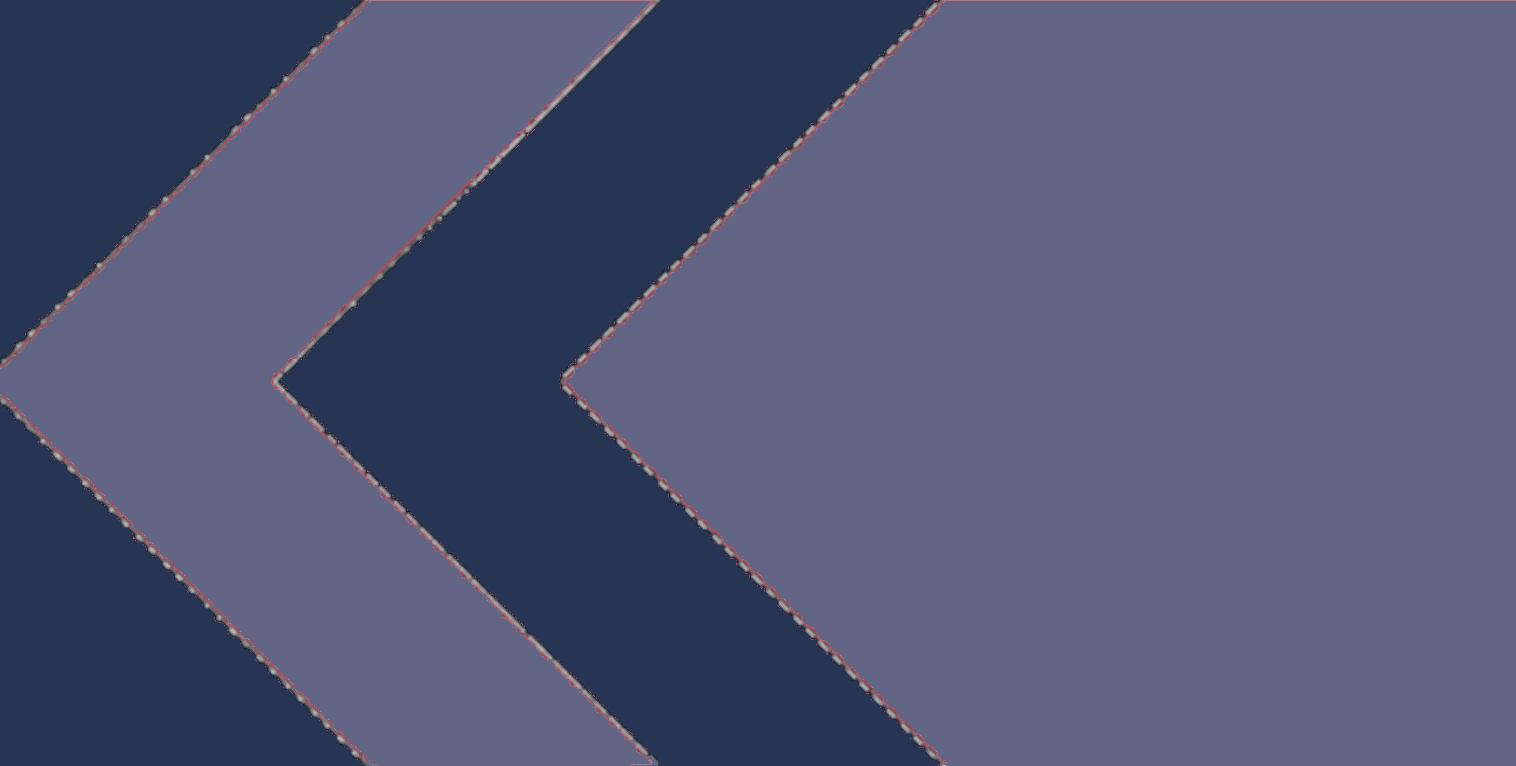
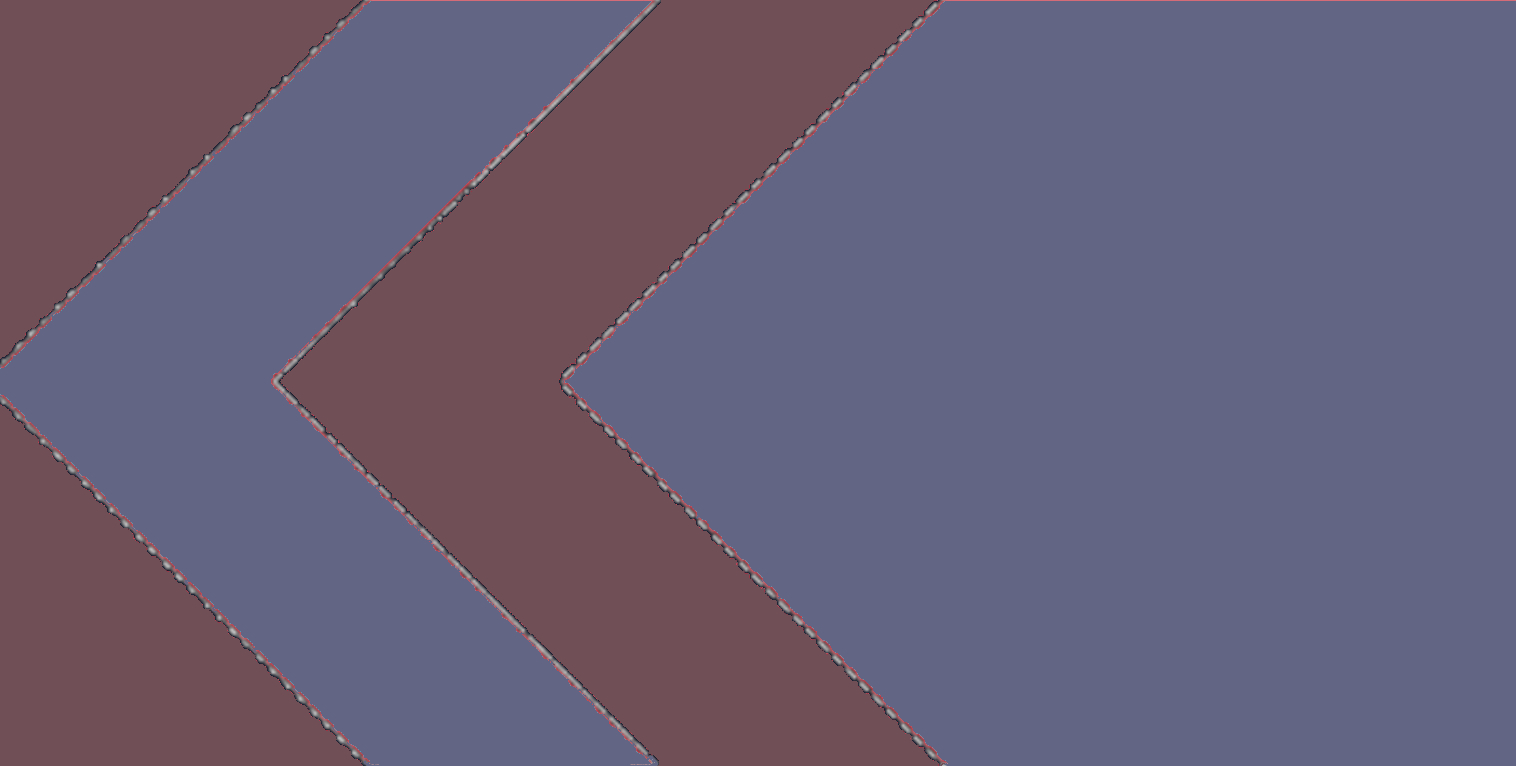
Added another arrow to qtile bar

Changed region(s): [[0.186, 0.0, 0.6201, 1.0], [0.0, 0.5405, 0.248, 1.0], [0.0, 0.0, 0.248, 0.4804]]

diff --git a/.config/qtile/config.py b/.config/qtile/config.py
@@ -105,7 +105,7 @@ groups = [
 	Group("General", matches=[Match(wm_class=["qutebrowser", "Chromium"])]),	
 	Group("Term", matches=[Match(title=['~'])]),
 	Group("IM", matches=[Match(wm_class=["pulse-sms"])]),
-	Group("Files", matches=[Match(wm_class=["Pcmanfm"]), Match(title=["ranger"]), Match(wm_class=["mpv"]), Match(wm_class=["Gimp"]), Match(wm_class=["Olive"])]),
+	Group("Files", matches=[Match(wm_class=["Pcmanfm"]), Match(title=["ranger"]), Match(wm_class=["mpv"])]),
 	Group("Games", matches=[Match(wm_class=["Steam"]), Match(wm_class=["Lutris"])]),
 	Group("VM", matches=[Match(wm_class=["Virt-manager"])]),
 ]
@@ -132,13 +132,14 @@ layouts = [
 ]
 
 ##### COLORS #####
+# Sections are listed from left to right. A section is from the begining of one arrow in the bar to the begining of the next.
 colors = [["#303030", "#303030"], # panel background
-          ["#887386", "#887386"], # Clock Background
-          ["#ffffff", "#ffffff"], # text color (white)
-          ["#626584", "#626584"], # background for system monitor widgets
-          ["#704F56", "#704F56"], # background for network  widgets
-          ["#263554", "#263554"], # background for control and update widgets
-          ["#e1acff", "#e1acff"]] # 
+          ["#887386", "#887386"], # fifth section
+          ["#626584", "#626584"], # fourth section
+          ["#704f56", "#704f56"], # third section
+          ["#3a517d", "#3a517d"], # second section
+          ["#263554", "#263554"], # first section
+          ["#ffffff", "#ffffff"]] # Text Color (White) 
 
 ##### PROMPT #####
 prompt = "{0}@{1}: ".format(os.environ["USER"], socket.gethostname())
@@ -163,7 +164,7 @@ screens = [
                         linewidth=0,
                         padding=6,
                         background=colors[0],
-                        foreground=colors[2],
+                        foreground=colors[6],
                 ),
                 widget.GroupBox(),
 		widget.WindowName(
@@ -175,44 +176,60 @@ screens = [
 		),
 		widget.CPU(
 			format='CPU {load_percent}%',
-			background=colors[4],
-			foreground=colors[2],
+			background=colors[5],
+			foreground=colors[6],
 			padding=2,
 		),
 		widget.TextBox(
 			text=" Thermal",
-			background=colors[4],
-			foreground=colors[2],
+			background=colors[5],
+			foreground=colors[6],
 			padding=2,
 		),
 		widget.ThermalSensor(
-			background=colors[4],
-			foreground=colors[2],
+			background=colors[5],
+			foreground=colors[6],
 			padding=2,
 		),
                 widget.TextBox(
                         text=" RAM",
-                        background=colors[4],
-                        foreground=colors[2],
+                        background=colors[5],
+                        foreground=colors[6],
                         padding=2,
                ),
                widget.Memory(
-                        background=colors[4],
-                        foreground=colors[2],
+                        background=colors[5],
+                        foreground=colors[6],
                         padding=5,
                 ),
 		widget.Image(
 			filename="~/.config/qtile/pictures/arrow-blue.jpg",
 		),
 		widget.TextBox(
+			text="Free Space",
+			background=colors[4],
+			foreground=colors[6],
+			padding=2,
+		),
+		widget.DF(
+			background=colors[4],
+			foreground=colors[6],
+			padding=5,
+			update_interval=5,
+			visible_on_warn=False,
+		),
+		widget.Image(
+			filename="~/.config/qtile/pictures/arrow-red.jpg",
+		),
+		widget.TextBox(
 			text="Network ",
-			background=colors[5],
-			foreground=colors[2],
+			background=colors[3],
+			foreground=colors[6],
 		),
 		widget.Net(
 			format='{down} ↓↑ {up}',
-			background=colors[5],
-			foreground=colors[2],
+			background=colors[3],
+			foreground=colors[6],
 			padding=4,
 		),
 		widget.Image(
@@ -220,24 +237,24 @@ screens = [
 		),
 		widget.TextBox(
 			text="🔊 ",
-			background=colors[3],
-			foreground=colors[2],
+			background=colors[2],
+			foreground=colors[6],
 		),
 		widget.Volume(
-			background=colors[3],
-			foreground=colors[2],
+			background=colors[2],
+			foreground=colors[6],
 			padding=2
 		),
 		widget.TextBox(
 			text=" ↻ ",
-			background=colors[3],
-			foreground=colors[2],
+			mouse_callbacks = {'Button1': lambda qtile: qtile.cmd_spawn("st" + ' -e sudo pacman -Syy')},
+			background=colors[2],
+			foreground=colors[6],
 		),
 		widget.CheckUpdates(
 			display_format='{updates}',
-			mouse_callbacks = {'Button1': lambda qtile: qtile.cmd_spawn("st" + ' -e sudo pacman -Syy')},
-			background=colors[3],
-			foreground=colors[2],
+			background=colors[2],
+			foreground=colors[6],
 			update_interval=5,
 		),
 		widget.Image(
@@ -246,7 +263,7 @@ screens = [
                 widget.Clock(
 			format='%a %I:%M %p %m-%d-%Y',
 			background=colors[1],
-			foreground=colors[2],
+			foreground=colors[6],
 		),
             ],
             24,
